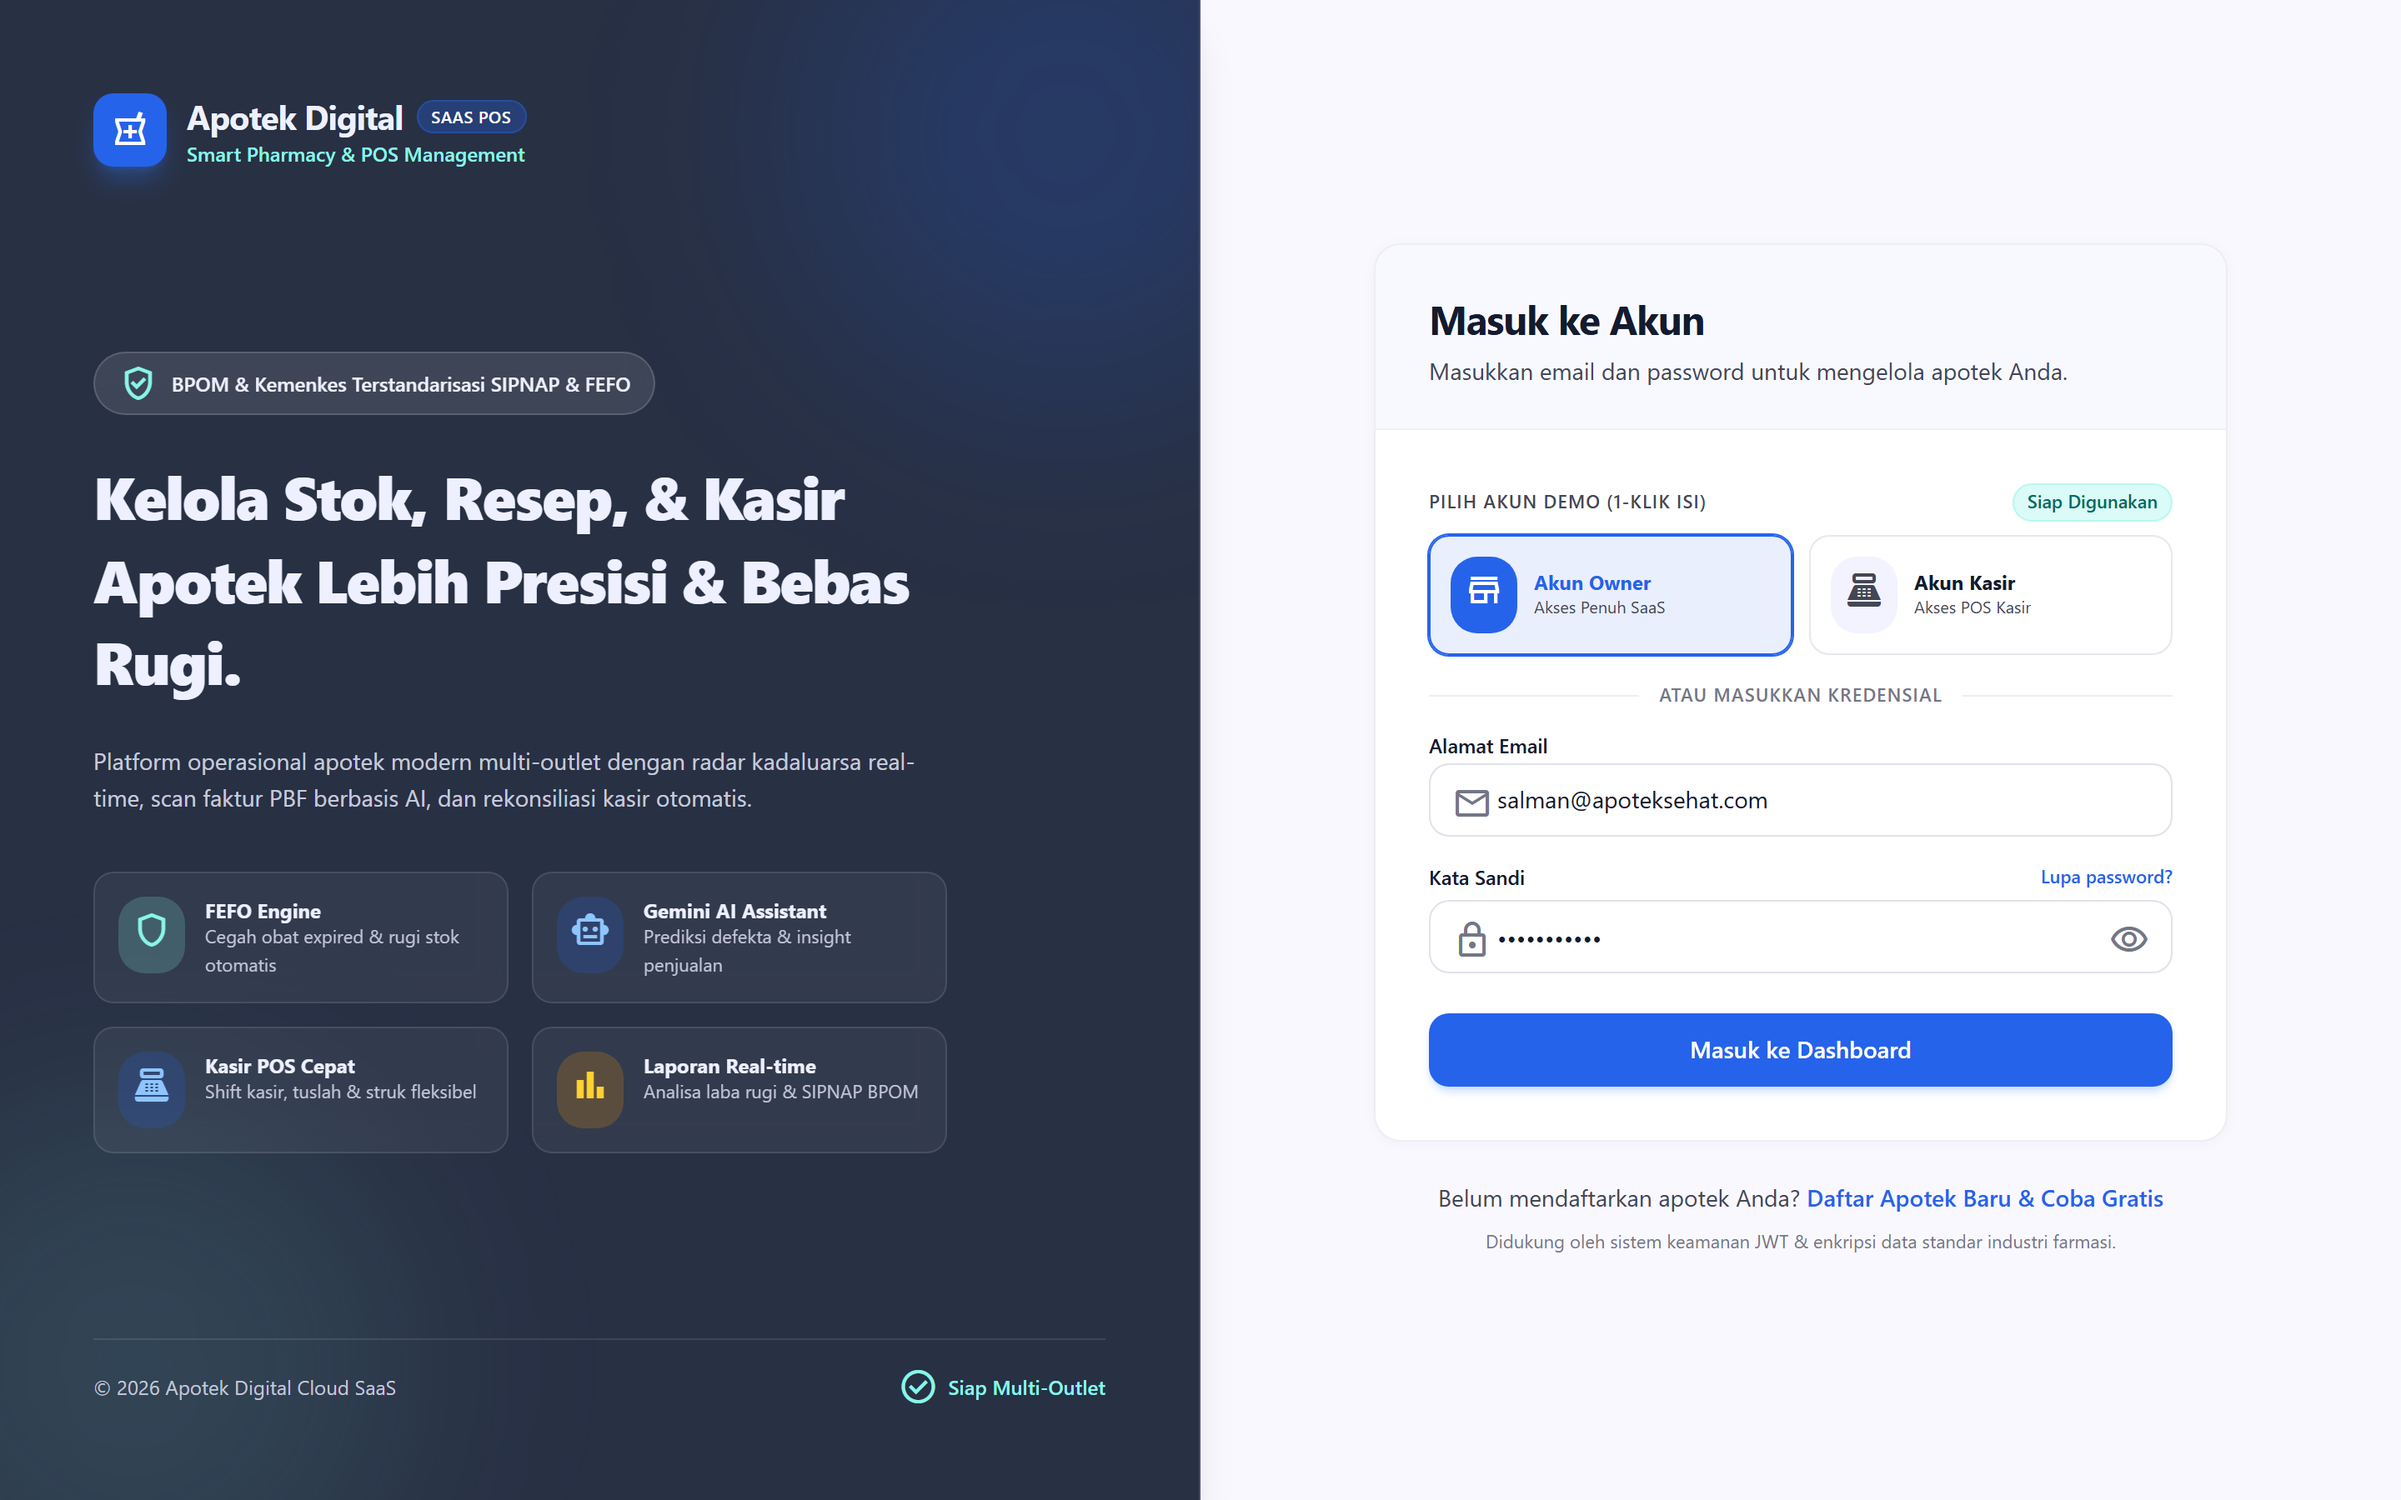
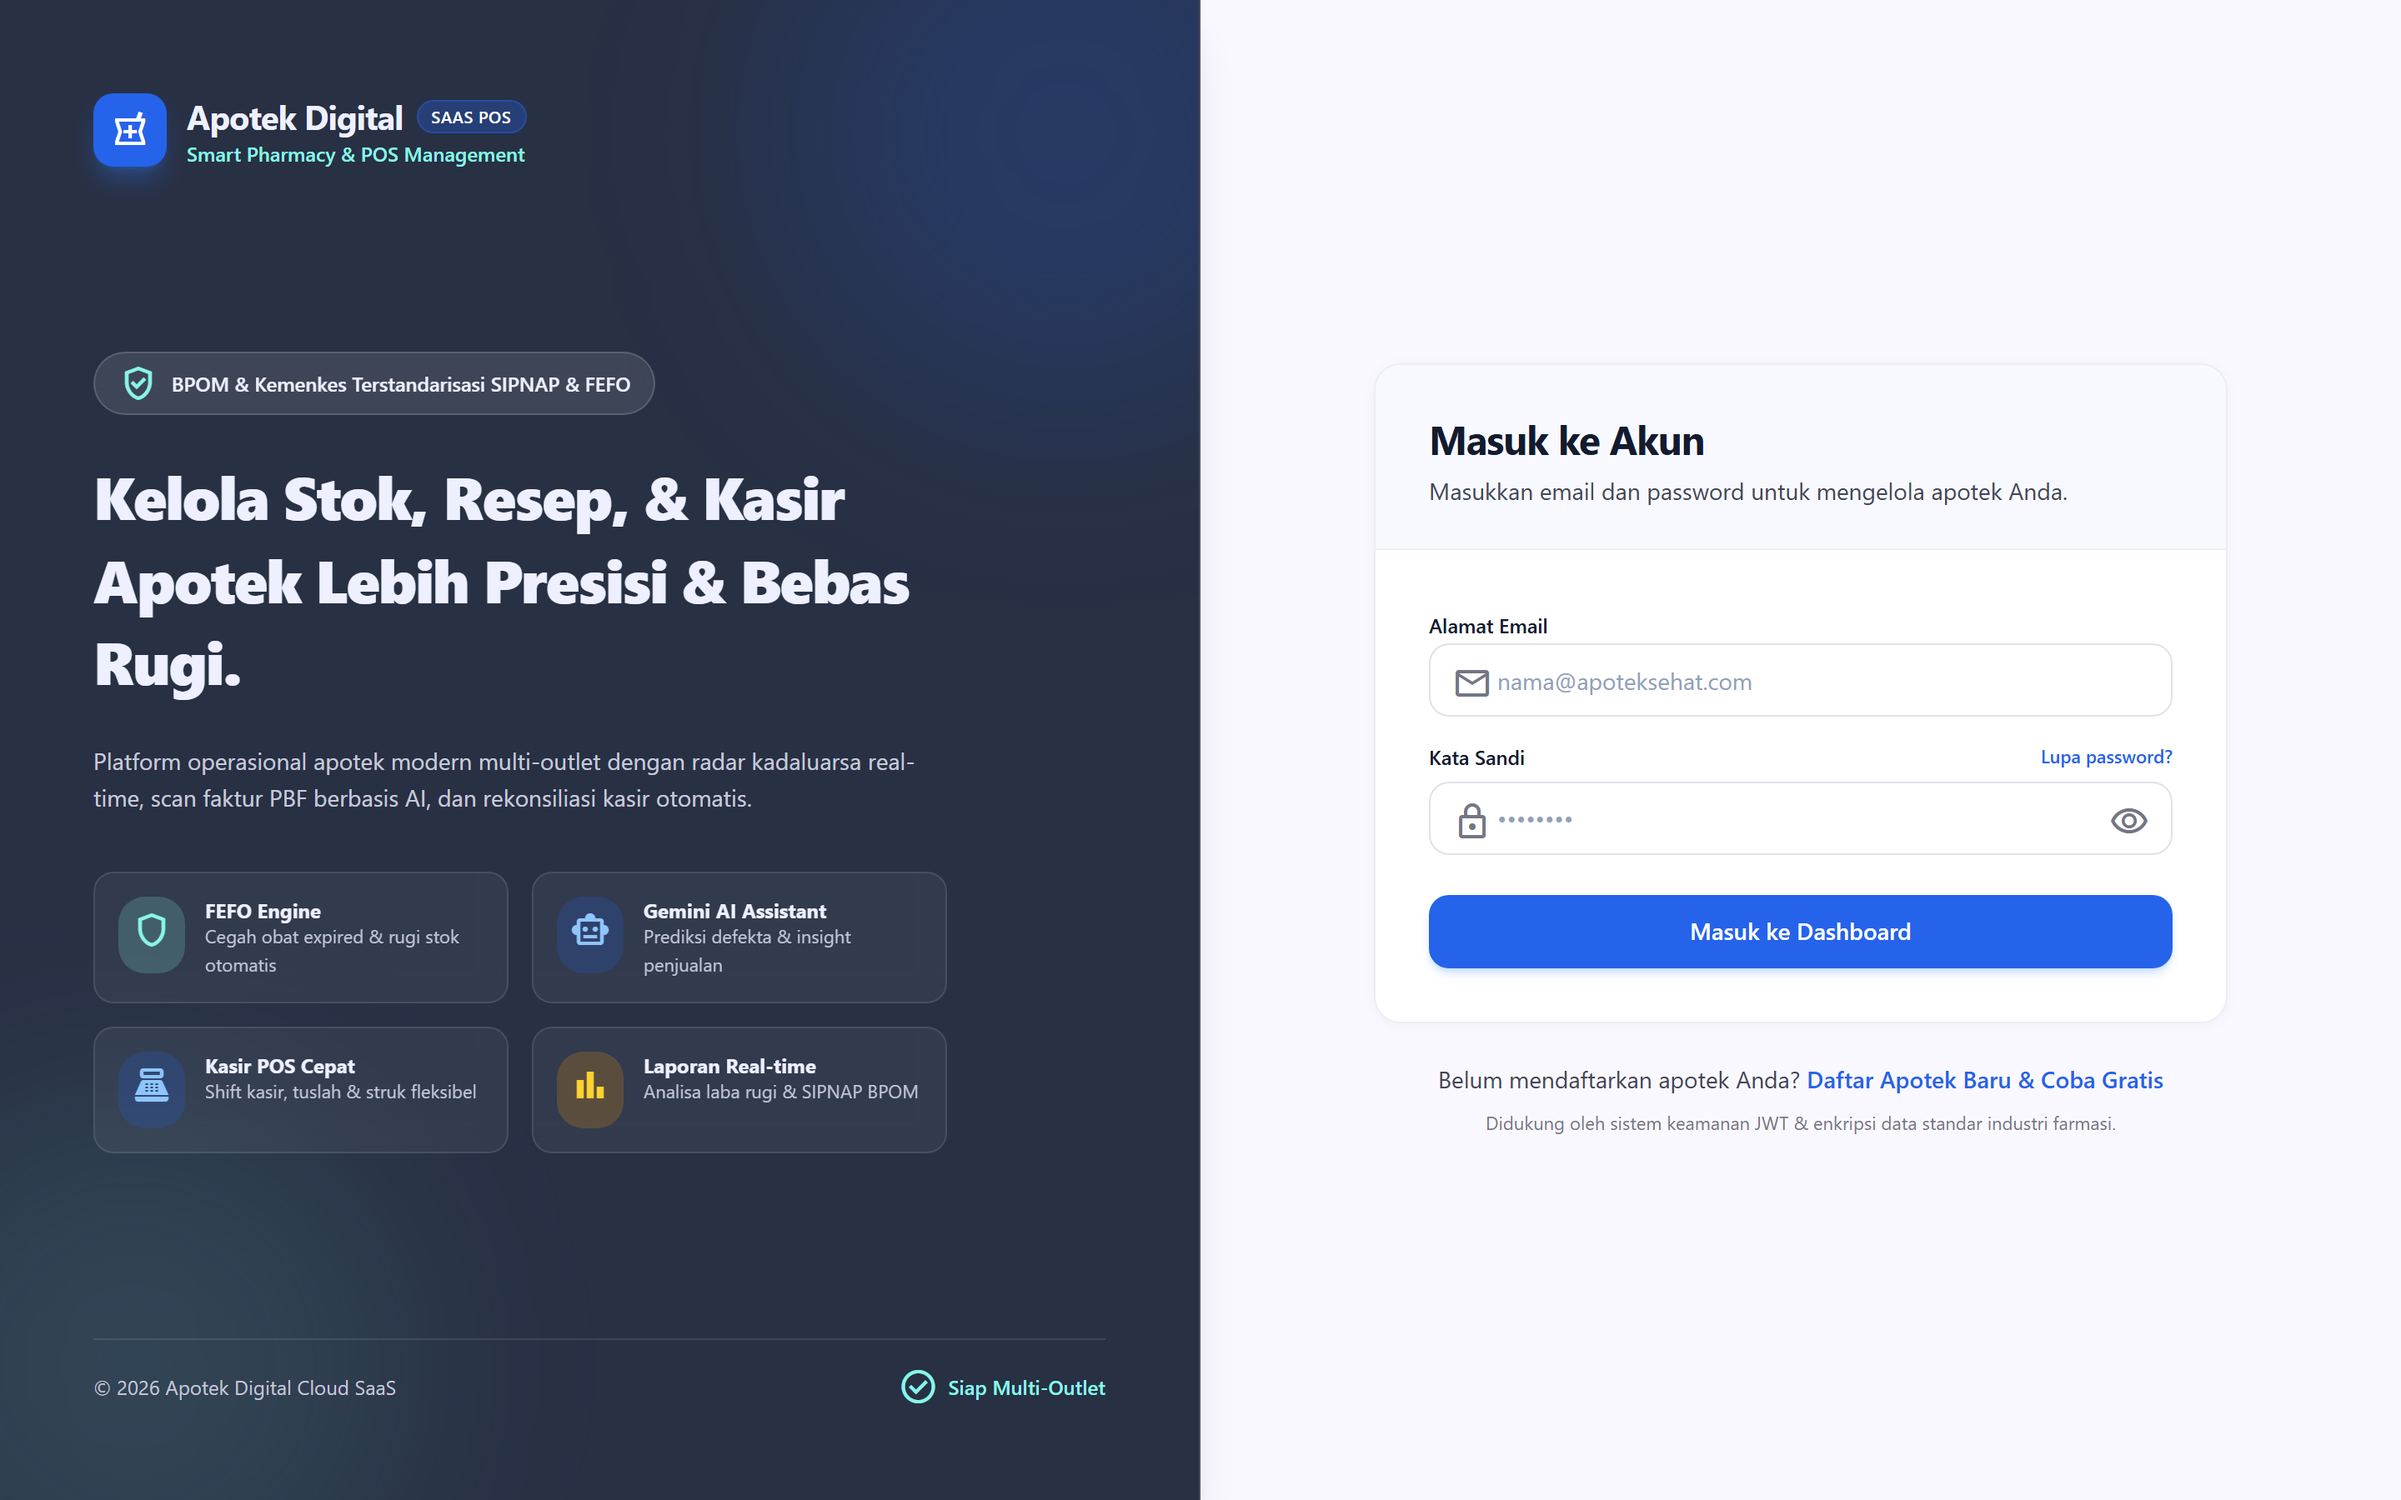
docs: update login screenshot without demo account and refresh README

diff --git a/src/app/(auth)/login/page.tsx b/src/app/(auth)/login/page.tsx
@@ -26,8 +26,8 @@ import {
 
 export default function LoginPage() {
   const { login } = useAuth();
-  const [email, setEmail] = useState("salman@apoteksehat.com");
-  const [password, setPassword] = useState("password123");
+  const [email, setEmail] = useState("");
+  const [password, setPassword] = useState("");
   const [showPassword, setShowPassword] = useState(false);
   const [loading, setLoading] = useState(false);
   const [error, setError] = useState<string | null>(null);
@@ -44,15 +44,6 @@ export default function LoginPage() {
       setLoading(false);
     }
   };
-
-  const handleQuickDemo = (demoEmail: string) => {
-    setEmail(demoEmail);
-    setPassword("password123");
-    setError(null);
-  };
-
-  const isOwnerSelected = email === "salman@apoteksehat.com";
-  const isKasirSelected = email === "kasir@apoteksehat.com";
 
   return (
     <div className="min-h-screen w-full flex flex-col md:flex-row bg-surface text-on-surface">
@@ -183,63 +174,6 @@ export default function LoginPage() {
                   <span>{error}</span>
                 </div>
               )}
-
-              {/* Quick Demo Switcher Tabs */}
-              <div className="space-y-2">
-                <div className="flex items-center justify-between">
-                  <span className="text-[11px] font-semibold text-on-surface-variant uppercase tracking-wider">
-                    Pilih Akun Demo (1-Klik Isi)
-                  </span>
-                  <span className="text-[11px] text-[#006a61] font-semibold bg-[#86f2e4]/30 px-2 py-0.5 rounded-full border border-secondary-container/40">
-                    Siap Digunakan
-                  </span>
-                </div>
-
-                <div className="grid grid-cols-2 gap-2.5">
-                  <button
-                    type="button"
-                    onClick={() => handleQuickDemo("salman@apoteksehat.com")}
-                    className={`flex items-center gap-2.5 p-3 rounded-xl border text-left transition-all ${
-                      isOwnerSelected
-                        ? "border-primary-container bg-primary-container/10 text-primary-container shadow-sm ring-1 ring-primary-container"
-                        : "border-outline-variant/40 bg-surface-container-lowest hover:bg-surface-container-low text-on-surface"
-                    }`}
-                  >
-                    <div className={`p-2 rounded-lg ${isOwnerSelected ? "bg-primary-container text-white" : "bg-surface-container-low text-on-surface-variant"}`}>
-                      <span className="material-symbols-outlined text-[18px]">store</span>
-                    </div>
-                    <div className="min-w-0">
-                      <div className="text-xs font-bold truncate">Akun Owner</div>
-                      <div className="text-[10px] text-on-surface-variant truncate">Akses Penuh SaaS</div>
-                    </div>
-                  </button>
-
-                  <button
-                    type="button"
-                    onClick={() => handleQuickDemo("kasir@apoteksehat.com")}
-                    className={`flex items-center gap-2.5 p-3 rounded-xl border text-left transition-all ${
-                      isKasirSelected
-                        ? "border-[#006a61] bg-[#86f2e4]/20 text-[#006a61] shadow-sm ring-1 ring-[#006a61]"
-                        : "border-outline-variant/40 bg-surface-container-lowest hover:bg-surface-container-low text-on-surface"
-                    }`}
-                  >
-                    <div className={`p-2 rounded-lg ${isKasirSelected ? "bg-[#006a61] text-white" : "bg-surface-container-low text-on-surface-variant"}`}>
-                      <span className="material-symbols-outlined text-[18px]">point_of_sale</span>
-                    </div>
-                    <div className="min-w-0">
-                      <div className="text-xs font-bold truncate">Akun Kasir</div>
-                      <div className="text-[10px] text-on-surface-variant truncate">Akses POS Kasir</div>
-                    </div>
-                  </button>
-                </div>
-              </div>
-
-              <div className="relative flex items-center justify-center my-4">
-                <div className="border-t border-outline-variant/30 w-full" />
-                <span className="bg-surface-container-lowest px-3 text-[11px] font-medium text-outline uppercase tracking-wider absolute">
-                  Atau masukkan kredensial
-                </span>
-              </div>
 
               <form onSubmit={handleSubmit} className="space-y-4">
                 <div className="space-y-1.5">

diff --git a/e2e/01-auth.spec.ts b/e2e/01-auth.spec.ts
@@ -8,7 +8,7 @@ test.describe('CUJ-01: Authentication, Registration & Onboarding', () => {
   test('Happy Path: Owner can login with valid credentials and redirect to dashboard', async ({ page }) => {
     await page.goto('/login');
 
-    await expect(page.getByRole('heading', { name: /masuk akun/i })).toBeVisible();
+    await expect(page.getByRole('heading', { name: /masuk.*akun/i })).toBeVisible();
 
     await page.locator('[data-testid="login-email"]').fill('salman@apoteksehat.com');
     await page.locator('[data-testid="login-password"]').fill('password123');

diff --git a/README.md b/README.md
@@ -19,6 +19,12 @@
   <em>Dashboard Operasional Apotek Digital & Ringkasan Metrik Farmasi</em>
 </p>
 
+<p align="center">
+  <img src="public/screenshots/login.png" alt="Halaman Login Apotek Digital" width="95%" />
+  <br/>
+  <em>Halaman Autentikasi Sesi & Multi-Role Tenant Isolation (Desain Modern)</em>
+</p>
+
 <details open>
 <summary><strong>Lihat Galeri Fitur Unggulan Lainnya ▾</strong></summary>
 
